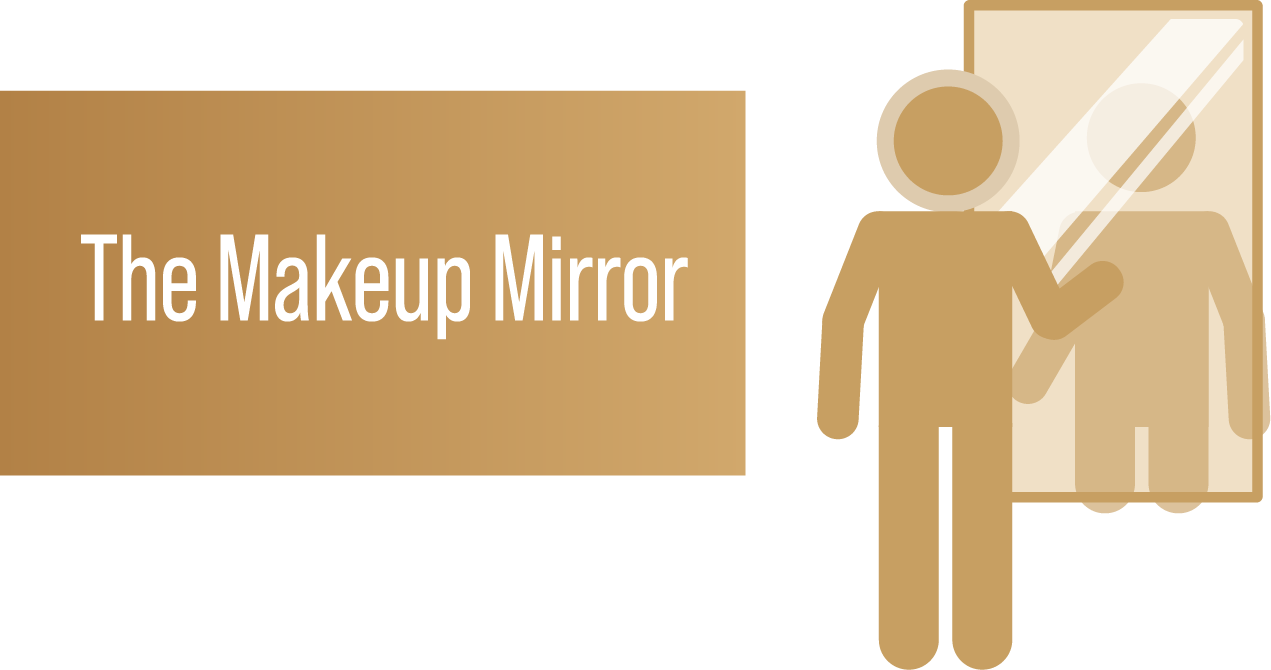
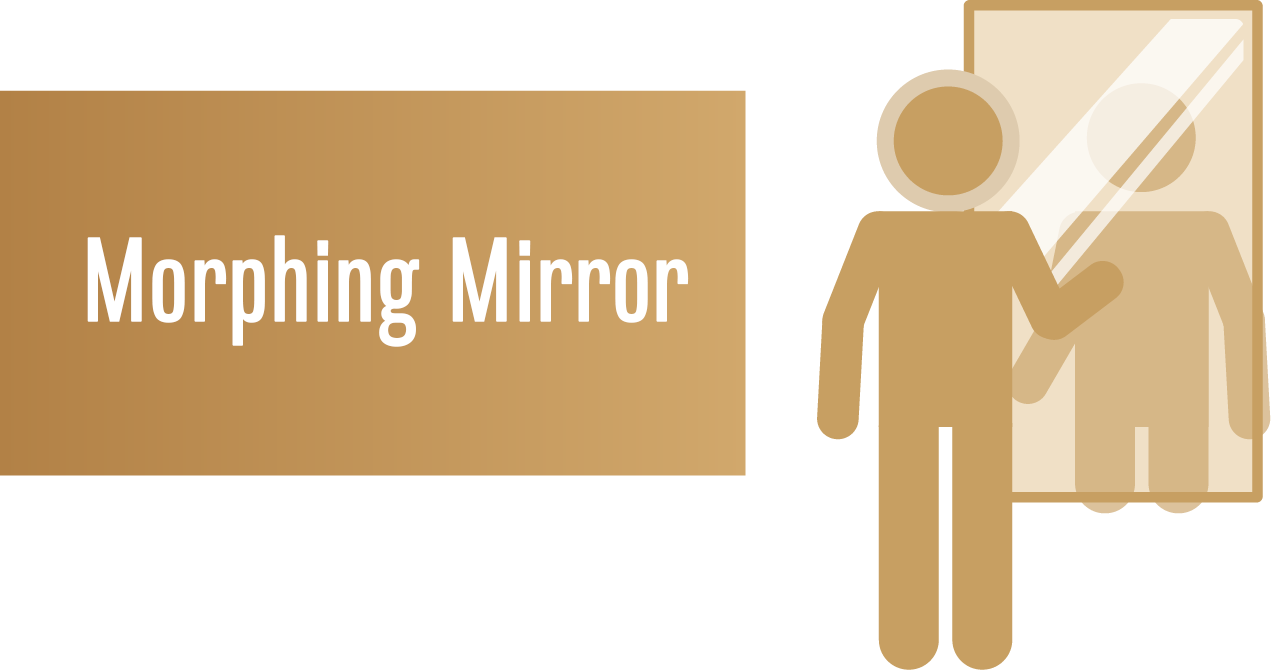
fix en text&image

Changed region(s): [[0.0614, 0.3284, 0.5523, 0.5373]]

diff --git a/www.tabf.org.tw.FE62-en/D-all.html b/www.tabf.org.tw.FE62-en/D-all.html
@@ -190,7 +190,7 @@
                                         <h2>Biometrics</h2>
                                         <!-- <h5>Biometrics</h5> -->
                                         <h5>I can't let the old Wang next door take away my account balance or open my safe, right?</h5>
-                                        <p>Today, with the gradual advancement of technology, we will do all kinds of things on the Internet, so how to protect our privacy and transaction security?<br>
+                                        <p>Today, with the gradual advancement of technology, we will do all kinds of things on the Internet, so how to protect our privacy and transaction security?
                                             In addition to a long list of passwords that will be forgotten every now and then, biometrics are becoming more and more important in the protection of privacy. For example, I can use Touch ID and Face ID to unlock my mobile phone, and I can let Siri do things for me when I hear my voice.</p>
                                     </div>
                                 </div>
@@ -263,7 +263,7 @@
                                         <!--<a href="https://youtu.be/BTu2aB3wjrE" target="_blank"><img src="images/D/13.png" class="img-fluid" alt="FE62 Fintech14"></a>-->
                                     </div>
                                     <div class="col-text pr-5">
-                                        <h2>Internet Banking</h2>
+                                        <h2>Online Banking</h2>
                                         <!-- <h5>Internet Banking</h5> -->
                                         <h5>These batches are very pure! Is your online bank "pure" enough?</h5>
                                         <p>Pure Internet banking refers to banks that do not have physical branches, and all financial services are carried out through the Internet or mobile channels. Huh? How is it different from the online banking services provided by traditional banks in the past? Compared with traditional banks, which have limited business hours, some businesses can only be handled at branches; pure online banking is the main service 24 hours a day, 365 days a year, and you can use the Internet, mobile phones or Identity authentication is performed in other ways, and various financial services such as deposits, loans, credit cards, insurance, foreign exchange, and investment are completed on the Internet.</p>
@@ -278,7 +278,7 @@
                                         <!--<a href="https://youtu.be/IZqcsd9RnVI" target="_blank"><img src="images/D/14.png" class="img-fluid" alt="FE62 Fintech15"></a>-->
                                     </div>
                                     <div class="col-text pr-5">
-                                        <h2>Supervision Technology</h2>
+                                        <h2>SupTech</h2>
                                         <!-- <h5>Supervision Technology</h5> -->
                                         <h5>Only magic! Can resist magic!</h5>
                                         <p>Let's get to know the "Supervisory Technology" where only technology can supervise technology. On the Internet, netizens often say with a smile: "It takes magic to fight magic. In fact, in the real world, only technology can supervise technology. As the term FinTech has become popular in recent years, a new word RegTech was born correspondingly, that is, Regulatory Technology, supervisory technology. The meaning of the word RegTech is to use new technologies to more effectively solve the problems of "legal compliance" and "supervision". To put it more simply, it is to see whether the emerging financial technology is legal.</p>
@@ -293,7 +293,7 @@
                                         <!--<a href="https://youtu.be/Zve3gjSSwgg" target="_blank"><img src="images/D/15.png" class="img-fluid" alt="FE62 Fintech16"></a>-->
                                     </div>
                                     <div class="col-text pr-5">
-                                        <h2>Information Security Risk</h2>
+                                        <h2>Cybersecurity</h2>
                                         <!-- <h5>Information Security Risk</h5> -->
                                         <h5>The distance between us and hackers! Information security is everyone's responsibility</h5>
                                         <p>Information security risk management is essential. For the financial system to operate smoothly, the entire information system must be properly established and maintained. According to the World Economic Forum's 2019 "Global Risk Report", "identities that are fraudulently used or data Theft" and "cyber attack" are respectively the fourth and fifth among the top ten global risks, which shows the importance of information security.</p>

diff --git a/www.tabf.org.tw.FE62-en/only.html b/www.tabf.org.tw.FE62-en/only.html
@@ -248,8 +248,8 @@
     <script>
         const coorData = [{
                 name: "financial-wellness",
-                title: 'Start learning now...',
-                description: 'Customized for high school students',
+                title: 'Financial Wellness Experience',
+                description: 'Customized for high school students, this financial management game simulates real financial goals and investments. Learn about investment distributions and risk awareness by buying and selling stocks, engaging with funds, making deposits, and encountering unexpected situations, and experience the  significance of financial management.',
                 left: '34.095%',
                 top: '51.077%',
                 width: '6.19%',
@@ -257,8 +257,8 @@
             },
             {
                 name: "journey-of-money",
-                title: 'Follow the journey of money...',
-                description: 'Explore the diverse monetary systems behind financial payments. ',
+                title: 'Currency Gallery',
+                description: 'Follow the journey of money and explore the diverse monetary systems behind financial payments.',
                 left: '40.912%',
                 top: '47.277%',
                 width: '7.60%',
@@ -266,8 +266,8 @@
             },
             {
                 name: "makeup-mirror",
-                title: 'Enter the morphing mirror...',
-                description: 'play different roles throughout the fascinating history of finance',
+                title: 'Morphing Mirror',
+                description: 'Enter the morphing mirror and play different roles throughout the fascinating history of finance!',
                 left: '68.559%',
                 top: '68.875%',
                 width: '6.90%',
@@ -275,8 +275,8 @@
             },
             {
                 name: "history-of-banks",
-                title: 'See the major events in banking ...',
-                description: 'Examine a variety of banking products and services',
+                title: 'History of Banking',
+                description: 'See the major events in banking and examine a variety of banking products and services',
                 left: '72.967%',
                 top: '60.087%',
                 width: '5.31%',
@@ -284,8 +284,8 @@
             },
             {
                 name: "vault-corner",
-                title: 'This exhibit replicates the sturdiness and precision of bank vault doors...',
-                description: 'Money, documents, and other valuables can all be stored inside bank vaults.',
+                title: 'Vault Corner',
+                description: 'Money, documents, and other valuables can all be stored inside bank vaults. This exhibit replicates the sturdiness and precision of bank vault doors, although it can only be viewed on-site!',
                 left: '94.439%',
                 top: '28.769%',
                 width: '6.01%',
@@ -293,8 +293,8 @@
             },
             {
                 name: "centennial-banking",
-                title: 'The immersive theater will guide you through the different eras of banking...',
-                description: 'Allowing you to appreciate a century of transformation in the appearance of banking!',
+                title: 'The Centennial of Banking',
+                description: 'The immersive theater will guide you through the different eras of banking and their magnificent lobbies, allowing you to appreciate a century of transformation in the appearance of banking!',
                 left: '70.195%',
                 top: '13.422%',
                 width: '8.84%',

diff --git a/www.tabf.org.tw.FE62-en/A6.html b/www.tabf.org.tw.FE62-en/A6.html
@@ -117,8 +117,8 @@
             <div class="row" id="main7">
                 <div class="col-lg-4 col-md-3 col-12 col-sm-4 col-xl-4">&nbsp;</div>
                 <div class="col-lg-4 col-md-5 col-sm-4 p3 col-12 col-xl-4">
-                    <h5 class="text-left mt-5 mb-2">First Credit Card in Taiwan</h5>
-                    <p3 style class="text-left">CTBC Bank joined the Interbank Card Association to issue the first credit card in Taiwan, marking the beginning of the plastic money era.</p3>
+                    <h5 class="text-left mt-5 mb-2">First Investment & Trust Company</h5>
+                    <p3 style class="text-left">In accordance with the rapid growth of national income and savings, authorities permitted the establishment of private investment & trust companies, and later the China Development Corporation was established, expanding the channels for small savings and indirect investment.</p3>
                     <br>
                     <br>
 
@@ -137,8 +137,8 @@
                         <strong>1974</strong>
                     </h2>
                     <br>
-                    <h5 class="text-left mt-0 mb-2">First Specialized Bank Providing Financing Assistance and Guidance to SMEs</h5>
-                    <p3 style class="text-left">In accordance with the Banking Act, Taiwan Credit Cooperative and Savings Co., Ltd. was reorganized into Taiwan Business Bank, which provides financing assistance, guidance, and professional services to small and medium-sized enterprises (SMEs).</p3>
+                    <h5 class="text-left mt-0 mb-2">First Credit Card in Taiwan</h5>
+                    <p3 style class="text-left">CTBC Bank joined the Interbank Card Association to issue the first credit card in Taiwan, marking the beginning of the plastic money era.</p3>
                 </div>
                 <div class="col-xl-4 col-lg-4 col-md-4 col-sm-4 col-12"></div>
             </div>
@@ -207,7 +207,7 @@
                     <h2 class="text-left mt-5 mb-1"><strong>1983</strong></h2>
                     <br>
                     <h5 class="text-left mt-0 mb-2">First Offshore Banking Unit</h5>
-                    <p style class="text-left pb-4">The National Debit Card Center, formed by seven financial institutions, officially issued National Debit Cards. The 1988 card was renamed as the National Credit Card (with revolving credit), and initiated cooperation with international credit card operators, helping develop Taiwan’s credit card market.</p>
+                    <p style class="text-left pb-4">The International Commercial Bank of China (the predecessor of Mega Bank) established Taiwan’s first offshore banking unit (OBU). Subsequently, many other banks also established OBUs, helping accelerate the development of international finance business in Taiwan.</p>
                 </div>
                 <div class="col-xl-4 col-lg-4 col-md-4 col-sm-4 col-12"></div>
             </div>

diff --git a/www.tabf.org.tw.FE62-en/css/fe62-2-en.css b/www.tabf.org.tw.FE62-en/css/fe62-2-en.css
@@ -453,6 +453,7 @@ main.container-fluid .section-venue-wrapper {
     background-repeat: no-repeat;
     position: relative;
     transform: scale(1.36);
+    /* margin-top: 4rem; */
 }
 .canvas-venue .indicators-board .board-logo {
     width: 12.997%; height: 18.067%; display: block;
@@ -491,8 +492,11 @@ main.container-fluid .section-venue-wrapper {
     width: 88vw;
 }
 .section-venue-container .reading-venue {
-    min-height: 120px; display: flex; justify-content: center;
-    align-items: center;
+    min-height: 250px;     
+    padding-top: 20px;
+    display: flex; 
+    justify-content: center;
+    /* align-items: center; */
 }
 .section-venue-container .reading-venue .active-message,
 .section-venue-container .reading-venue.active .pending-message {
@@ -766,7 +770,7 @@ main.container-fluid .section-venue-wrapper {
         padding-bottom: 5vw;
     }
     .section-venue-container .reading-venue {
-        width: 40%;
+        width: 80%;
     }
     .hover-banner.active:not(:hover) > .hover-banner-active {
         opacity: 0;
@@ -891,7 +895,7 @@ main.container-fluid .section-venue-wrapper {
         min-height: 963px;
     }
     .section-venue-container .reading-venue {
-        width: 35%;
+        width: 55%;
     }
 
     main.container-fluid .section-cafe-container {

diff --git a/www.tabf.org.tw.FE62-en/A1-2.html b/www.tabf.org.tw.FE62-en/A1-2.html
@@ -67,8 +67,7 @@
         <div class="row" id="main01">
             <div class="col-xl-1 col-lg-1 col-md-1 col-sm-1 col-1">&nbsp;</div>
             <div class="col-xl-10 col-lg-10 col-md-10 col-sm-10 col-10" id="text-context01">During the 1960s, Taiwan's economy developed rapidly, driving market demand for financial services. <br>
-                In 1895, Japan's Osaka Neutral Bank established an office in Keelung, with a branch opening the following year. <br>
-                This can be considered Taiwan's earliest modern bank. </div>
+                From 1979 to 1990, Taiwan carried out a series of financial liberalization policies, modernized financial law and the structure of the financial system, and increased the efficiency of capital allocation.</div>
             <div class="col-xl-1 col-lg-1 col-md-1 col-sm-1 col-1">&nbsp;</div>
         </div>
         <div class="row" id="main02">
